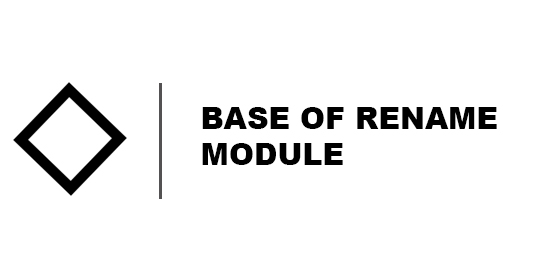
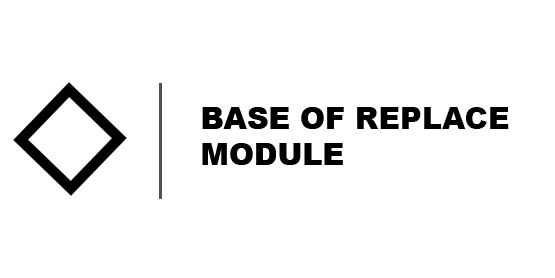
Added experience tab

diff --git a/pages/experiences.js b/pages/experiences.js
@@ -1,0 +1,123 @@
+import Head from 'next/head'
+import Mains from "../components/Mains"
+import Footer from "../components/Footer"
+import { data } from 'autoprefixer';
+import Image from 'next/image'
+
+
+
+// function fetchData(){
+//   fetch("https://api.github.com/users/altela/repos")
+//     .then(response => {
+//       if (!response.ok) {
+//         throw Error("Error");
+//       }
+//       return response.json();
+//     })
+//     .then(data => {
+//       console.log(data.data);
+//       document.querySelector("#app").innerHTML = <h1>Hellooo</h1>
+//     })
+// }
+
+// fetch("https://api.github.com/users/altela/repos")
+//   .then(function (response) {
+//       return response.json();
+// }).then(function (obj) {
+//   console.log(obj);
+// }).catch(function (error){
+//   console.error('Something Error');
+//   console.error(error);
+// })
+
+
+export default function Projects() {
+  return (
+    <div className="container mx-auto lg:max-w-4xl px-5">
+      <h2 class="text-xl font-medium leading-tight mt-0 mb-2 text-gray-900 mt-20 mb-5">Google Cloud - Juara GCP 2022</h2>
+        <div class="grid gap-2 grid-cols-3">
+          <div>
+          <div class="relative group">
+            <a href ="https://www.cloudskillsboost.google/public_profiles/e2e11897-359a-4020-ab4a-4276c7218d56/badges/1644680">
+              <img src="/ensure_identity.png"></img>
+              <div class="opacity-0 group-hover:opacity-70 duration-300 absolute left-0 bottom-0 right-0 z-10 flex justify-center items-end bg-black text-gray-200 text-sm">Issued January 14, 2022</div>
+            </a>
+          </div>
+          </div>
+
+          <div>
+          <div class="relative group">
+            <a href ="https://www.cloudskillsboost.google/public_profiles/e2e11897-359a-4020-ab4a-4276c7218d56/badges/1657380">
+            <div><img src="/cloudres.png"></img></div>
+              <div class="opacity-0 group-hover:opacity-70 duration-300 absolute left-0 bottom-0 right-0 z-10 flex justify-center items-end bg-black text-gray-200 text-sm">Issued January 18, 2022</div>
+            </a>
+          </div>
+          </div>
+
+          <div>
+          <div class="relative group">
+            <a href ="https://www.cloudskillsboost.google/public_profiles/e2e11897-359a-4020-ab4a-4276c7218d56/badges/1679820">
+            <div><img src="/fundamental.png"></img></div>
+              <div class="opacity-0 group-hover:opacity-70 duration-300 absolute left-0 bottom-0 right-0 z-10 flex justify-center items-end bg-black text-gray-200 text-sm">Issued January 25, 2022</div>
+            </a>
+          </div>
+          </div>
+
+          <div>
+          <div class="relative group">
+            <a href ="https://www.cloudskillsboost.google/public_profiles/e2e11897-359a-4020-ab4a-4276c7218d56/badges/1659792">
+            <div><img src="/essential.png"></img></div>
+              <div class="opacity-0 group-hover:opacity-70 duration-300 absolute left-0 bottom-0 right-0 z-10 flex justify-center items-end bg-black text-gray-200 text-sm">Issued January 19, 2022</div>
+            </a>
+          </div>
+          </div>
+
+          <div>
+          <div class="relative group">
+            <a href ="https://www.cloudskillsboost.google/public_profiles/e2e11897-359a-4020-ab4a-4276c7218d56/badges/1681158">
+            <div><img src="/sports.png"></img></div>
+              <div class="opacity-0 group-hover:opacity-70 duration-300 absolute left-0 bottom-0 right-0 z-10 flex justify-center items-end bg-black text-gray-200 text-sm">Issued January 25, 2022</div>
+            </a>
+          </div>
+          </div>
+
+          <div>
+          <div class="relative group">
+            <a href ="https://www.cloudskillsboost.google/public_profiles/e2e11897-359a-4020-ab4a-4276c7218d56/badges/1684884">
+            <div><img src="/workspace.png"></img></div>
+              <div class="opacity-0 group-hover:opacity-70 duration-300 absolute left-0 bottom-0 right-0 z-10 flex justify-center items-end bg-black text-gray-200 text-sm">Issued January 26, 2022</div>
+            </a>
+          </div>
+          </div>
+          
+        </div>
+
+        <h2 class="text-xl font-medium leading-tight mt-0 mb-2 text-gray-900 mt-10 mb-5">Dicoding - Indosat Oreedoo Digital Camp 2020</h2>
+        
+        <div class="grid gap-2 grid-cols-2 w-80 content-center">
+
+        <div>
+          <div class="relative group">
+            <a href ="https://www.dicoding.com/certificates/MEPJ5L8LLP3V">
+            <div><img src="/ios.png"></img></div>
+              <div class="opacity-0 group-hover:opacity-80 duration-300 absolute left-0 bottom-0 right-0 z-10 flex text-center items-end bg-black text-gray-200 text-sm">Memulai Pemrograman Dengan Swift<br /> Issued May 25, 2020</div>
+            </a>
+          </div>
+          </div>
+
+          <div class="relative group">
+            <a href ="https://www.dicoding.com/certificates/MRZMGK2K0ZYQ">
+            <div><img src="/ios.png"></img></div>
+              <div class="opacity-0 group-hover:opacity-80 duration-300 absolute left-0 bottom-0 right-0 z-10 flex text-center items-end bg-black text-gray-200 text-sm">Membuat Aplikasi iOS untuk Pemula<br /> Issued June 17, 2020</div>
+            </a>
+          </div>
+          
+        </div>
+
+
+
+    </div>
+
+    
+  )
+}

diff --git a/pages/projects.js b/pages/projects.js
@@ -34,31 +34,95 @@ import Image from 'next/image'
 export default function Projects() {
   return (
     <div className="container mx-auto lg:max-w-4xl px-5">
-      <h2 class="text-3xl font-medium leading-tight mt-0 mb-2 text-gray-900 mt-20">Odoo ERP Modules</h2>
+      <h2 class="text-2xl font-medium leading-tight mt-0 text-gray-900 mt-20">Odoo ERP Modules</h2>
+        <div class="grid gap-2 grid-cols-3">
+          <div class="relative group">
+            <a href="https://apps.odoo.com/apps/modules/15.0/adjustment_rename/" target="_blank">
+              <img src="/rename_adj.jpg"></img>
+              <div class="opacity-0 group-hover:opacity-70 duration-300 absolute left-0 bottom-0 right-0 z-10 flex justify-center items-end bg-black text-gray-200 text-sm">Allows user to rename in-progress Inventory Adjustment </div>
+            </a>
+          </div>
 
-<table>
+
+          <div class="relative group">
+            <a href="https://apps.odoo.com/apps/modules/12.0/base_replace/" target="_blank">
+              <img src="/banner-base.jpg"></img>
+              <div class="opacity-0 group-hover:opacity-70 duration-300 absolute left-0 bottom-0 right-0 z-10 flex justify-center items-end bg-black text-gray-200 text-sm">The base module of Customer and Vendor replacement</div>
+            </a>
+          </div>
+
+          <div class="relative group">
+            <a href="https://apps.odoo.com/apps/modules/12.0/replace_cust_so/" target="_blank">
+              <img src="/replace_cust.jpg" class="w-50"></img>
+              <div class="opacity-0 group-hover:opacity-70 duration-300 absolute left-0 bottom-0 right-0 z-10 flex text-center items-end bg-black text-gray-200 text-sm">Allows user to change Customer in validated Sales Order</div>
+            </a>
+          </div>
+
+        </div>
+
+        <h2 class="text-2xl font-medium leading-tight mt-0 mb-5 text-gray-900 mt-10">Code Editor</h2>
+          <div class="grid gap-2 grid-cols-3">
+            <div class="relative group">
+              <a href ="https://github.com/altela/sublime-pine-autocomplete">
+                <img src="/sublime.png" class="w-20"></img>
+                <div class="opacity-0 group-hover:opacity-70 duration-300 absolute left-0 bottom-0 right-0 z-10 bg-black text-gray-200 text-sm">Pinescript Autocomplete</div>
+              </a>
+            </div>
+          </div>
+
+    </div>
+
+
+)
+}
+
+
+
+      
+
+{/* <table>
   <tbody>
     <tr>
       <td>
 
-      <div class="relative group">
-        <a href="https://apps.odoo.com/apps/modules/15.0/adjustment_rename/" target="_blank">
-          <img src="/rename_adj.jpg" class="max-w-full max-h-full"></img>
-          <div class="opacity-0 group-hover:opacity-70 duration-300 absolute left-0 bottom-0 right-0 z-10 flex justify-center items-end bg-black text-gray-200 text-sm">Allows user to rename in-progress Inventory Adjustment </div>
-        </a>
-      </div>
 
       </td>
-      <th><img src="/banner-base.jpg" alt="mammals" class="max-w-full max-h-full" title="mammals"></img></th>
+
+      <td>
+
+      </td>
+
+      <td>
+
+      </td>
 
     </tr>
   </tbody>
 </table>
 
+<table>
+<tr>
+<h2 class="text-2xl font-medium leading-tight mt-0 mb-2 text-gray-900 mt-10">Code Editor</h2>
+</tr>
+<tr>
+
+<td>
+<div>
+
+      </td>
 
 
-    </div>
+</tr>
+</table> */}
+
+
+
+// </div>
+
+
 
     
-  )
-}
+
+    
+//   )
+// }

diff --git a/components/Navigation.js b/components/Navigation.js
@@ -4,14 +4,29 @@ import React from "react"
 const Navigation = () => {
     return (
         <div className="sticky top-0 z-20 py-2 bg-black md:py-3 md:mb-6">
-            <div className="container px-4 mx-auto lg:max-w-4xl flex items-center">
-                <div class="grid gap-x-5 grid-cols-3">
+            <div className="container lg:max-w-4xl px-4 mx-auto items-center border-0">
+                <div class="grid gap-x-5 grid-cols-4 ">
                     <div>
                         <Link href="/">
                         <a className={"font-medium tracking-wider transition-colors text-white hover:text-sky-500 uppercase"} >
                         ◆
                         </a>
                     </Link>
+                    </div>
+
+                    <Link href="/projects">
+                        <a className={"font-medium tracking-wider transition-colors text-white hover:text-sky-500 uppercase"} >
+                        Projects
+                    </a>
+
+                    </Link>
+
+                    <div>
+                            <Link href="/experiences">
+                        <a className={"font-medium tracking-wider transition-colors text-white hover:text-sky-500 uppercase"} >
+                                Experiences
+                            </a>
+                        </Link>
                     </div>
 
                     <div>
@@ -23,12 +38,7 @@ const Navigation = () => {
                     </div>
                     <div>
 
-                    <Link href="/projects">
-                <a className={"font-medium tracking-wider transition-colors text-white hover:text-sky-500 uppercase"} >
-                        Projects
-                    </a>
 
-                </Link>
                     </div>
 
                 </div>
